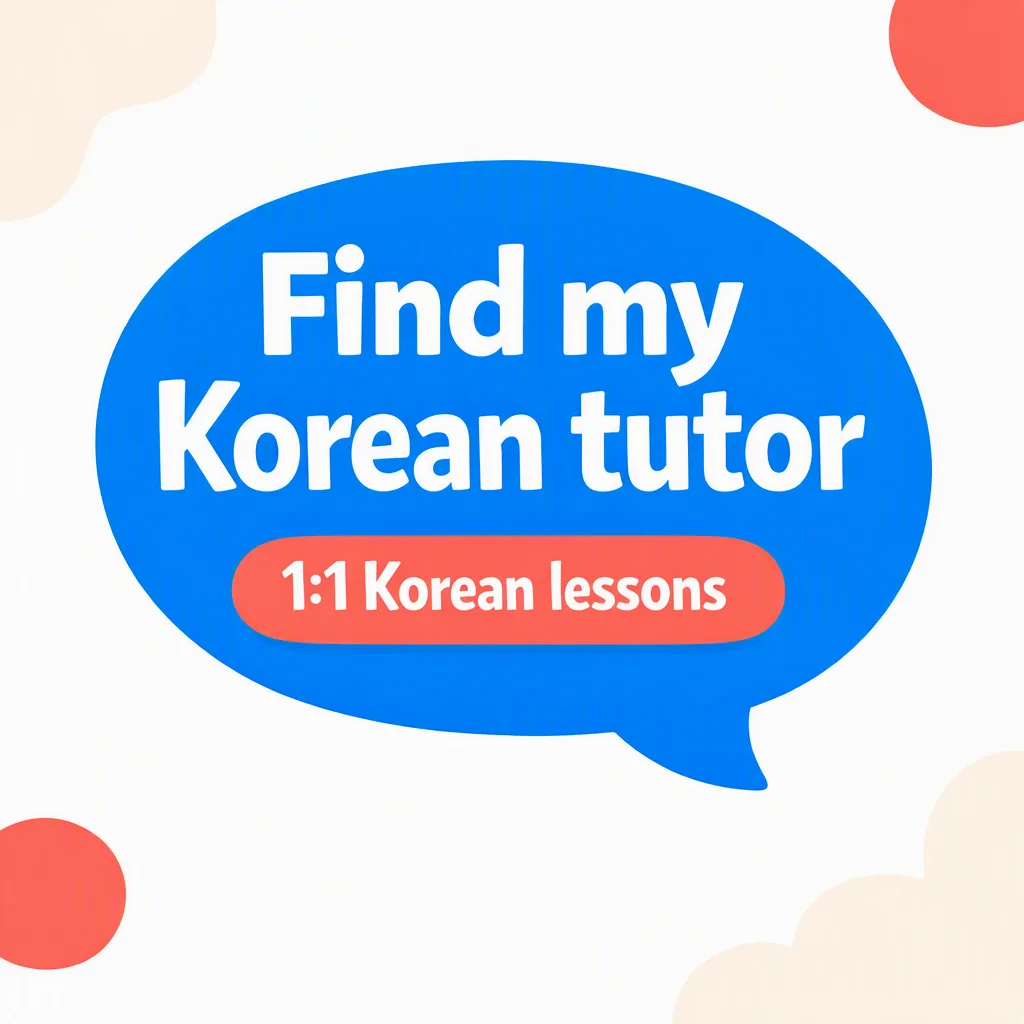
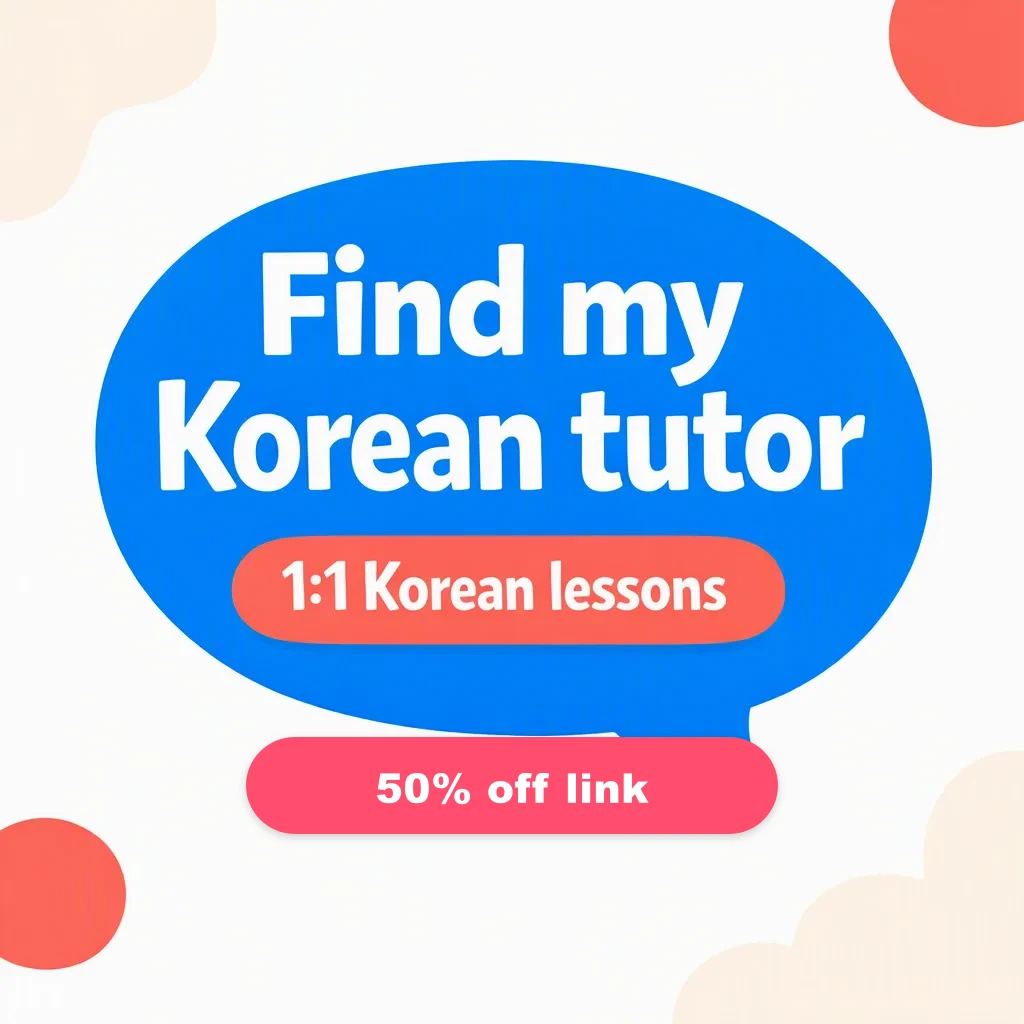
Polish vocab SEO CTAs and keep the mini-game collapsed.
Ship the approved after layout: card shells for related/Q&A, figure border hugging the chart, Preply 50% off badge, and closed-by-default flashcard widget.

Changed region(s): [[0.2188, 0.7188, 0.7812, 0.8438]]

diff --git a/src/components/vocab-infographic/VocabSeoArticle.tsx b/src/components/vocab-infographic/VocabSeoArticle.tsx
@@ -62,18 +62,18 @@ export function VocabSeoArticle({ page }: { page: VocabSeoPage }) {
         ) : null}
       </header>
 
-      <figure className="overflow-hidden rounded-[1.25rem] border border-[var(--quiz-border)] bg-[var(--quiz-surface)]">
+      <figure className="mx-auto w-full max-w-xl overflow-hidden rounded-[1.25rem] border border-[var(--quiz-border)] bg-[var(--quiz-canvas)]">
         {/* eslint-disable-next-line @next/next/no-img-element */}
         <img
           src={page.imageUrl}
           alt={page.imageAlt}
           width={1024}
           height={1024}
-          className="mx-auto w-full max-w-xl object-contain bg-[var(--quiz-canvas)]"
+          className="block h-auto w-full object-contain"
           loading="eager"
           decoding="async"
         />
-        <figcaption className="border-t border-[var(--quiz-border)] px-4 py-3 text-center text-sm text-[var(--quiz-text-sub)]">
+        <figcaption className="border-t border-[var(--quiz-border)] bg-[var(--quiz-surface)] px-4 py-3 text-center text-sm text-[var(--quiz-text-sub)]">
           {page.title}
         </figcaption>
       </figure>

diff --git a/src/components/vocab-infographic/VocabSeoRelated.tsx b/src/components/vocab-infographic/VocabSeoRelated.tsx
@@ -17,7 +17,7 @@ function wordPreview(page: VocabSeoPage): string {
   return page.intro.slice(0, 80);
 }
 
-/** Related charts — page-level section (not inside the main white card). */
+/** Related charts — rendered inside MarketingShell on the vocab SEO page. */
 export function VocabSeoRelated({ items }: Props) {
   if (items.length === 0) return null;
 
@@ -45,7 +45,7 @@ export function VocabSeoRelated({ items }: Props) {
           <li key={page.bundleId}>
             <Link
               href={vocabSeoPath(page.bundleId, page.slug)}
-              className="flex h-full flex-col gap-0.5 rounded-xl px-3 py-3 transition hover:bg-[var(--quiz-surface)] sm:px-3.5"
+              className="flex h-full flex-col gap-0.5 rounded-xl border border-[var(--quiz-border)] bg-[var(--quiz-surface)] px-3.5 py-3 transition hover:border-[var(--quiz-primary)]/35 hover:bg-[var(--quiz-surface-muted)]"
             >
               <span className="font-semibold text-[var(--quiz-text)]">
                 {page.titleEn}

diff --git a/src/app/vocab/[bundleId]/[slug]/page.tsx b/src/app/vocab/[bundleId]/[slug]/page.tsx
@@ -130,13 +130,21 @@ export default async function VocabSeoDetailPage({ params }: Props) {
           </div>
         </MarketingShellBody>
       </MarketingShell>
-      <div className="mt-10 space-y-12">
-        <VocabSeoRelated items={related} />
-        <VocabNativeQA
-          bundleId={page.bundleId}
-          pageTitle={page.titleEn}
-          pagePath={vocabSeoPath(page.bundleId, page.slug)}
-        />
+      <div className="mt-10 space-y-8">
+        <MarketingShell>
+          <MarketingShellBody>
+            <VocabSeoRelated items={related} />
+          </MarketingShellBody>
+        </MarketingShell>
+        <MarketingShell>
+          <MarketingShellBody>
+            <VocabNativeQA
+              bundleId={page.bundleId}
+              pageTitle={page.titleEn}
+              pagePath={vocabSeoPath(page.bundleId, page.slug)}
+            />
+          </MarketingShellBody>
+        </MarketingShell>
       </div>
     </MarketingPage>
   );

diff --git a/src/components/site/SeoMiniQuizWidget.tsx b/src/components/site/SeoMiniQuizWidget.tsx
@@ -73,10 +73,6 @@ export function SeoMiniQuizWidget() {
   const sessionComplete = answered && quizIndex >= sessionQuizCount - 1;
 
   React.useEffect(() => {
-    setOpen(window.matchMedia("(min-width: 768px)").matches);
-  }, []);
-
-  React.useEffect(() => {
     if (!eligible || queueRequestedRef.current) return;
     queueRequestedRef.current = true;
     const controller = new AbortController();

diff --git a/src/lib/affiliateTutor.ts b/src/lib/affiliateTutor.ts
@@ -38,7 +38,7 @@ const PARTNERS = {
       width: 1024,
       height: 1024,
     },
-    alt: "Find my Korean tutor — 1:1 Korean lessons",
+    alt: "Find my Korean tutor — 50% off link on 1:1 Korean lessons",
   },
 } as const;
 
